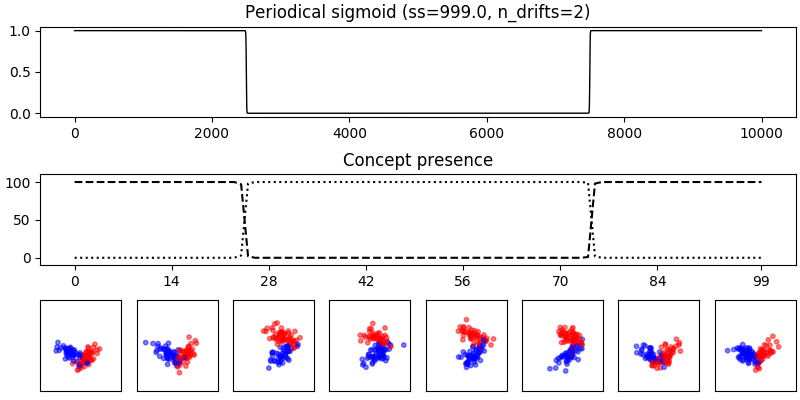
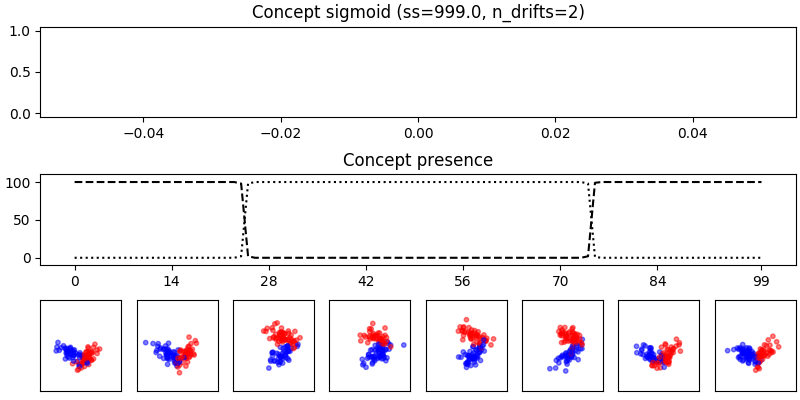
Nomenclature.

diff --git a/strlearn/streams/StreamGenerator.py b/strlearn/streams/StreamGenerator.py
@@ -11,7 +11,7 @@ class StreamGenerator:
         chunk_size=200,
         random_state=1410,
         n_drifts=4,
-        sigmoid_spacing=10,
+        concept_sigmoid_spacing=10,
         n_classes=2,
         **kwargs,
     ):
@@ -20,7 +20,7 @@ class StreamGenerator:
         self.chunk_size = chunk_size
         self.random_state = random_state
         self.n_drifts = n_drifts
-        self.sigmoid_spacing = sigmoid_spacing
+        self.concept_sigmoid_spacing = concept_sigmoid_spacing
         self.n_classes = n_classes
         self.make_classification_kwargs = kwargs
 
@@ -58,17 +58,17 @@ class StreamGenerator:
             )
 
             # Sigmoid
-            self.period_sigmoid = (
+            self.concept_sigmoid = (
                 logistic.cdf(
                     np.concatenate(
                         [
                             np.linspace(
-                                -self.sigmoid_spacing
+                                -self.concept_sigmoid_spacing
                                 if i % 2
-                                else self.sigmoid_spacing,
-                                self.sigmoid_spacing
+                                else self.concept_sigmoid_spacing,
+                                self.concept_sigmoid_spacing
                                 if i % 2
-                                else -self.sigmoid_spacing,
+                                else -self.concept_sigmoid_spacing,
                                 period,
                             )
                             for i in range(self.n_drifts)
@@ -79,10 +79,12 @@ class StreamGenerator:
                 else np.ones(n_samples)
             )
             # Szum
-            self.noise = np.random.rand(n_samples)
+            self.concept_noise = np.random.rand(n_samples)
 
             # Selekcja klas
-            self.concept_selector = (self.period_sigmoid > self.noise).astype(int)
+            self.concept_selector = (self.concept_sigmoid > self.concept_noise).astype(
+                int
+            )
 
             # Przypisanie klas {do naprawy}
             self.X = np.zeros(X_a.shape)

diff --git a/examples/drift_plotter.py b/examples/drift_plotter.py
@@ -27,7 +27,7 @@ streams = {
         n_informative=2,
         n_redundant=0,
         n_repeated=0,
-        sigmoid_spacing=5,
+        concept_sigmoid_spacing=5,
         n_clusters_per_class=1,
     ),
     "0_stationary": StreamGenerator(
@@ -40,7 +40,7 @@ streams = {
         n_informative=2,
         n_redundant=0,
         n_repeated=0,
-        sigmoid_spacing=5,
+        concept_sigmoid_spacing=5,
         n_clusters_per_class=1,
     ),
     "2_sudden_drift": StreamGenerator(
@@ -53,7 +53,7 @@ streams = {
         n_informative=2,
         n_redundant=0,
         n_repeated=0,
-        sigmoid_spacing=999,
+        concept_sigmoid_spacing=999,
         n_clusters_per_class=1,
     ),
 }
@@ -98,10 +98,10 @@ for stream_name in streams:
     # Periodical sigmoid
     ax = fig.add_subplot(gs[0, :])
     ax.set_title(
-        "Periodical sigmoid (ss=%.1f, n_drifts=%i)"
-        % (stream.sigmoid_spacing, stream.n_drifts)
+        "Concept sigmoid (ss=%.1f, n_drifts=%i)"
+        % (stream.concept_sigmoid_spacing, stream.n_drifts)
     )
-    ax.plot(stream.period_sigmoid, lw=1, c="black")
+    ax.plot(stream.concept_sigmoid_spacing, lw=1, c="black")
     ax.set_ylim(-0.05, 1.05)
 
     plt.savefig("plots/%s.png" % stream_name)
